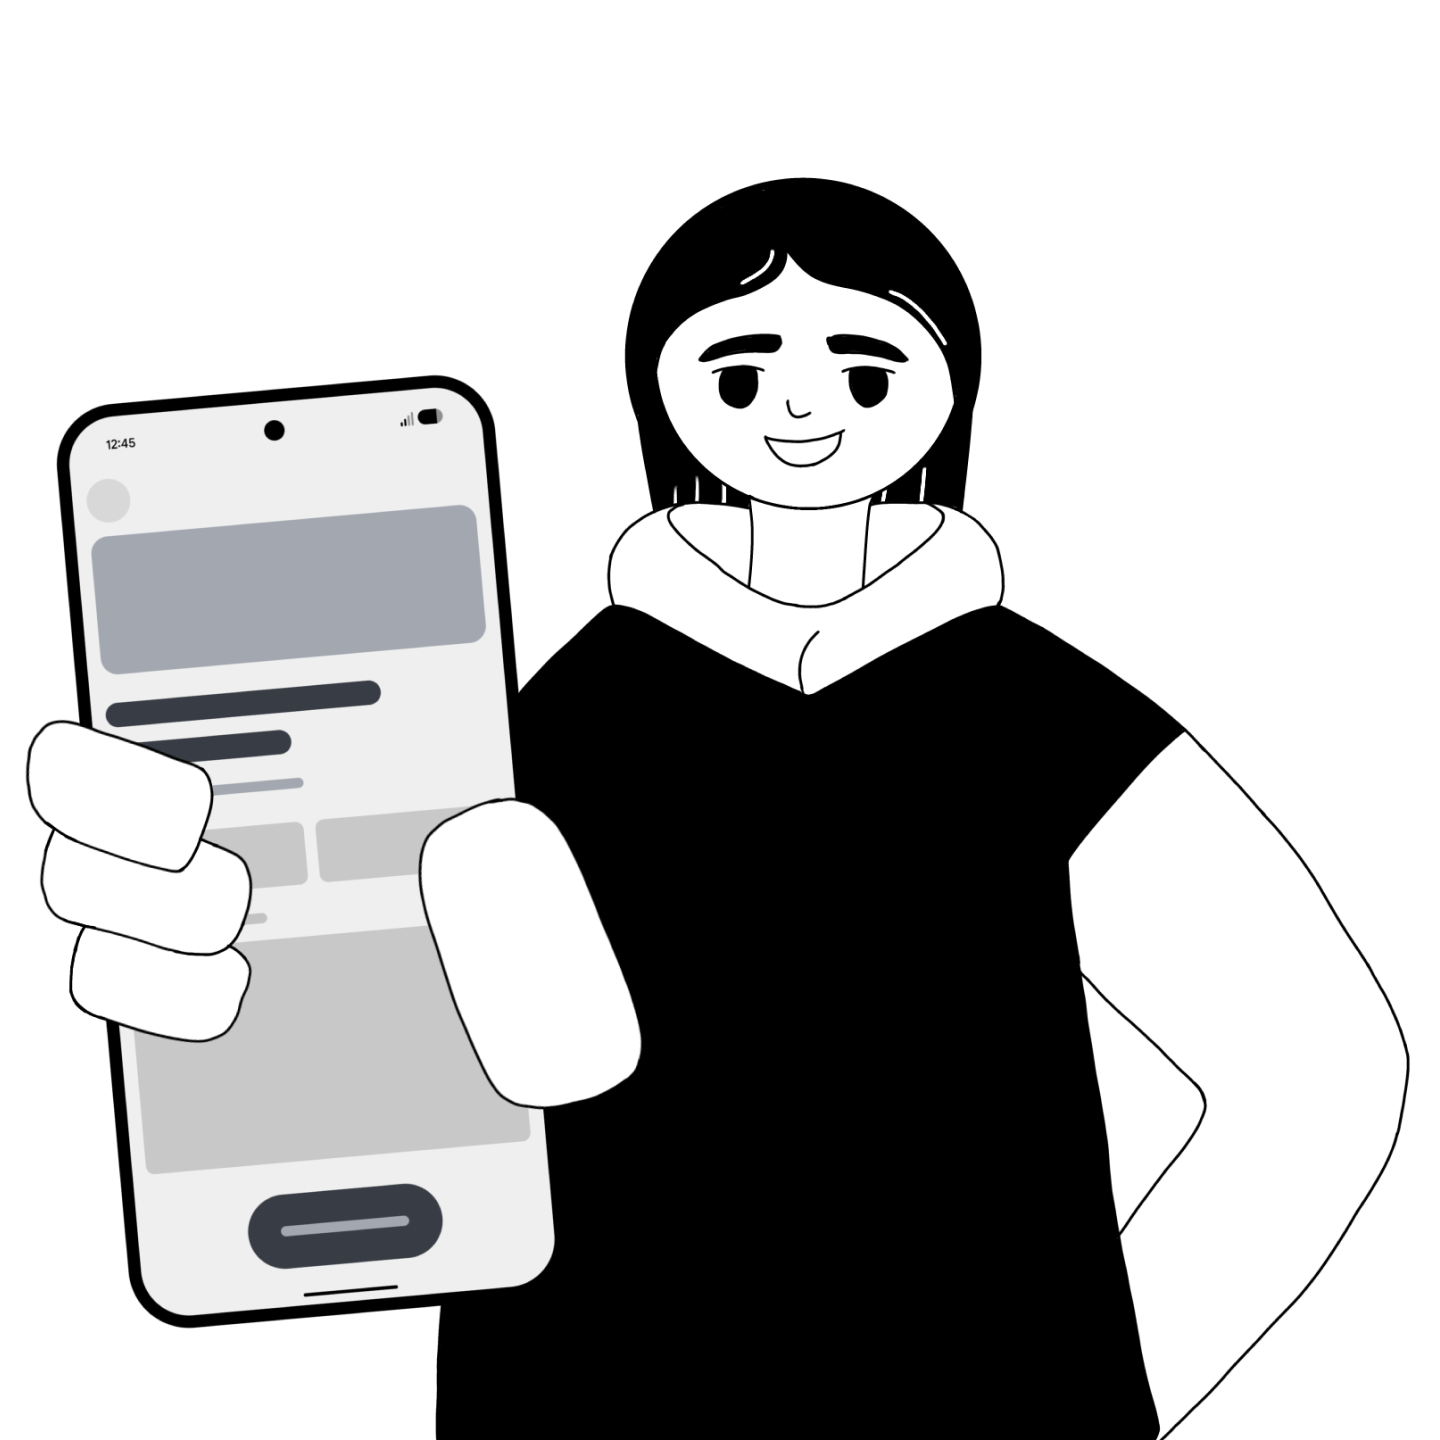
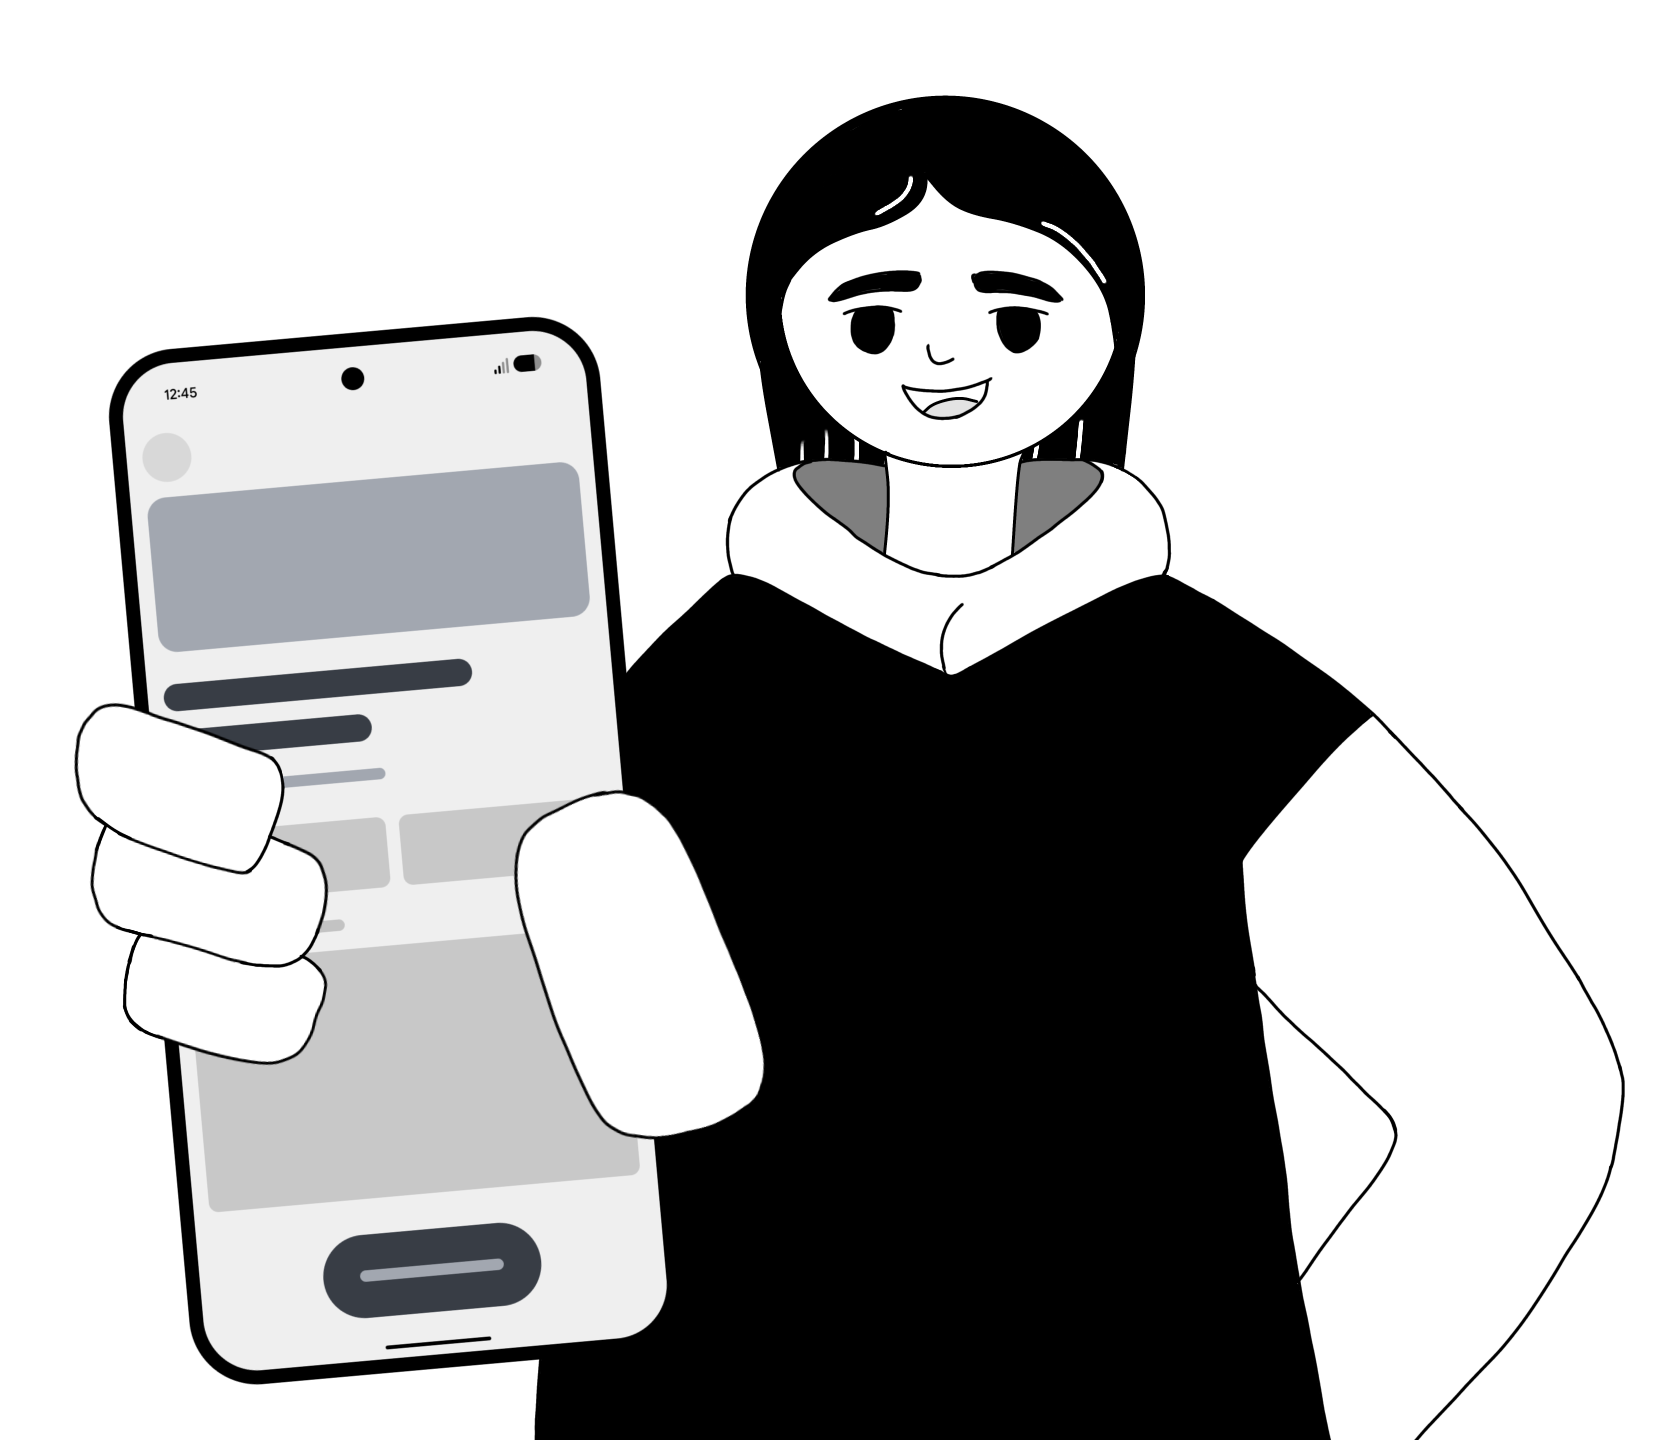
minor fix

diff --git a/src/pages/auth/login.tsx b/src/pages/auth/login.tsx
@@ -3,7 +3,6 @@ import { Link, useLocation, useNavigate } from "react-router-dom"
 import { AnimatePresence, motion } from "motion/react"
 import { LogIn, CheckCircle2 } from "lucide-react"
 import logo from "../../assets/logo.svg"
-import vye from "../../assets/vye.png"
 import { useAuth } from "../../lib/auth-context"
 import { safeNext } from "../../lib/redirect"
 import PasswordInput from "../../components/passwordInput"
@@ -40,21 +39,34 @@ function Login() {
 
     return (
         <div className="min-h-screen flex bg-base">
-            <div className="hidden lg:flex flex-1 flex-col justify-center px-3.5 bg-white from-darks/5 via-base to-darks/5">
-                <div className="max-w-lg ml-20">
-                    <img src={logo} alt="Formaly" className="h-10 w-auto mb-2" />
-                    <h1 className="text-4xl font-bold text-darks leading-tight">
-                        Buat lebih mudah.
-                    </h1>
-                    <p className="text-2xl text-tinted">
-                        Kerjakan dengan gampang.
-                    </p>
-                    <p className="text-base text-tinted mt-6 leading-relaxed max-w-md">
-                        Kelola formulir dan data dengan cepat, mudah, dan efisien.
-                        Platform all-in-one untuk kebutuhan form kamu.
-                    </p>
-                    <img src={vye} alt="Ilustrasi" className="mb-8 h-72 object-contain" />
+            <div className="hidden lg:flex flex-1 flex-col relative overflow-hidden bg-darks text-white">
+                {/* Dekorasi lembut: blob gradasi di pojok panel */}
+                <span className="pointer-events-none absolute -top-32 -right-24 h-96 w-96 rounded-full bg-white/5 blur-2xl" />
+                <span className="pointer-events-none absolute -bottom-40 -left-24 h-96 w-96 rounded-full bg-done/10 blur-2xl" />
+
+                <div className="flex flex-col h-full px-3.5 relative z-10 py-16">
+                    <div className="max-w-lg ml-10">
+                        <div className="flex items-center gap-3 mb-10">
+                            <img src={logo} alt="Formaly" className="h-9 w-auto brightness-0 invert" />
+                        </div>
+
+                        <h1 className="text-4xl xl:text-5xl font-bold leading-tight">
+                            Buat lebih mudah.
+                            <span className="block text-white/55 mt-2">Kerjakan dengan gampang.</span>
+                        </h1>
+
+                        <p className="text-white/60 text-lg mt-6 max-w-md leading-relaxed">
+                            Kelola formulir dan data dengan cepat, mudah, dan efisien.
+                            Platform all-in-one untuk kebutuhan form kamu.
+                        </p>
+                    </div>
                 </div>
+
+                {/* <img
+                    src={vye}
+                    alt="Ilustrasi"
+                    className="pointer-events-none absolute right-0 bottom-0 z-0 w-1/2 lg:w-3/5 xl:w-3/4 max-w-none object-contain object-right-bottom"
+                /> */}
             </div>
 
             <div className="flex-1 flex items-center justify-center px-3.5 py-12">

diff --git a/src/pages/auth/register.tsx b/src/pages/auth/register.tsx
@@ -3,7 +3,6 @@ import { Link, useLocation, useNavigate } from "react-router-dom"
 import { AnimatePresence, motion } from "motion/react"
 import { UserPlus } from "lucide-react"
 import logo from "../../assets/logo.svg"
-import ash from "../../assets/ash.png"
 import { useAuth } from "../../lib/auth-context"
 import { safeNext } from "../../lib/redirect"
 import PasswordInput from "../../components/passwordInput"
@@ -50,21 +49,34 @@ function Register() {
 
     return (
         <div className="min-h-screen flex bg-base">
-            <div className="hidden lg:flex flex-1 flex-col justify-center px-3.5 bg-white from-darks/5 via-base to-darks/5">
-                <div className="max-w-lg ml-20">
-                    <img src={ash} alt="Ilustrasi" className="mb-8 h-72 object-contain" />
-                    <img src={logo} alt="Formaly" className="h-10 w-auto mb-2" />
-                    <h1 className="text-4xl font-bold text-darks leading-tight">
-                        Buat lebih mudah.
-                    </h1>
-                    <p className="text-2xl text-tinted">
-                        Kerjakan dengan gampang.
-                    </p>
-                    <p className="text-base text-tinted mt-6 leading-relaxed max-w-md">
-                        Kelola formulir dan data dengan cepat, mudah, dan efisien.
-                        Platform all-in-one untuk kebutuhan form kamu.
-                    </p>
+            <div className="hidden lg:flex flex-1 flex-col relative overflow-hidden bg-darks text-white">
+                {/* Dekorasi lembut: blob gradasi di pojok panel */}
+                <span className="pointer-events-none absolute -top-32 -right-24 h-96 w-96 rounded-full bg-white/5 blur-2xl" />
+                <span className="pointer-events-none absolute -bottom-40 -left-24 h-96 w-96 rounded-full bg-done/10 blur-2xl" />
+
+                <div className="flex flex-col h-full px-3.5 relative z-10 py-16">
+                    <div className="max-w-lg ml-10">
+                        <div className="flex items-center gap-3 mb-10">
+                            <img src={logo} alt="Formaly" className="h-9 w-auto brightness-0 invert" />
+                        </div>
+
+                        <h1 className="text-4xl xl:text-5xl font-bold leading-tight">
+                            Buat lebih mudah.
+                            <span className="block text-white/55 mt-2">Kerjakan dengan gampang.</span>
+                        </h1>
+
+                        <p className="text-white/60 text-lg mt-6 max-w-md leading-relaxed">
+                            Kelola formulir dan data dengan cepat, mudah, dan efisien.
+                            Platform all-in-one untuk kebutuhan form kamu.
+                        </p>
+                    </div>
                 </div>
+
+                {/* <img
+                    src={ash}
+                    alt="Ilustrasi"
+                    className="pointer-events-none absolute right-0 bottom-0 z-0 w-1/2 lg:w-3/5 xl:w-3/4 max-w-none object-contain object-right-bottom"
+                /> */}
             </div>
 
             <div className="flex-1 flex items-center justify-center px-3.5 py-12">

diff --git a/src/pages/galileo/chat.tsx b/src/pages/galileo/chat.tsx
@@ -242,6 +242,9 @@ function ChatPage() {
 
     return (
         <div className="flex flex-col items-center justify-center min-h-screen px-3.5 sm:px-6 py-6">
+            {/* <span className="pointer-events-none absolute -top-32 -right-24 h-96 w-96 rounded-full bg-white/5 blur-2xl" />
+            <span className="pointer-events-none absolute -bottom-40 -left-24 h-96 w-96 rounded-full bg-done/10 blur-2xl" /> */}
+
             <motion.div variants={fadeSlide} initial="hidden" animate="show" className="w-full max-w-2xl">
                 <h1 className="text-center font-default text-4xl sm:text-4xl text-darks">
                     Halo, saya <span className="font-bold">Galileo</span>!
@@ -282,9 +285,8 @@ function ChatPage() {
                                                     type="button"
                                                     onMouseEnter={() => setPickIndex(i)}
                                                     onClick={() => pickForm(f)}
-                                                    className={`w-full flex items-center gap-2 px-3 py-2 text-left text-sm transition-colors ${
-                                                        i === pickIndex ? "bg-base" : "bg-transparent"
-                                                    }`}
+                                                    className={`w-full flex items-center gap-2 px-3 py-2 text-left text-sm transition-colors ${i === pickIndex ? "bg-base" : "bg-transparent"
+                                                        }`}
                                                 >
                                                     <LayoutTemplate className="h-4 w-4 text-tinted shrink-0" />
                                                     <span className="text-darks truncate">{f.title}</span>
@@ -333,7 +335,7 @@ function ChatPage() {
                     </div>
 
                     {error && <p className="text-sm text-wrong mt-2 px-2">{error}</p>}
-{/* 
+                    {/* 
                     <p className="text-xs text-tinted mt-3 px-1">
                         Coba ketik <span className="font-semibold text-darks">@</span> lalu pilih form — Galileo akan membaca soal yang sudah ada dan menambahkan soal baru ke form itu.
                     </p> */}
@@ -398,9 +400,8 @@ function ModelPicker({
                                         onSelect(m.id)
                                         setOpen(false)
                                     }}
-                                    className={`w-full flex items-start gap-2.5 px-3 py-2.5 text-left transition-colors ${
-                                        m.id === selected.id ? "bg-base" : "bg-transparent hover:bg-base/60"
-                                    }`}
+                                    className={`w-full flex items-start gap-2.5 px-3 py-2.5 text-left transition-colors ${m.id === selected.id ? "bg-base" : "bg-transparent hover:bg-base/60"
+                                        }`}
                                     role="option"
                                     aria-selected={m.id === selected.id}
                                 >
